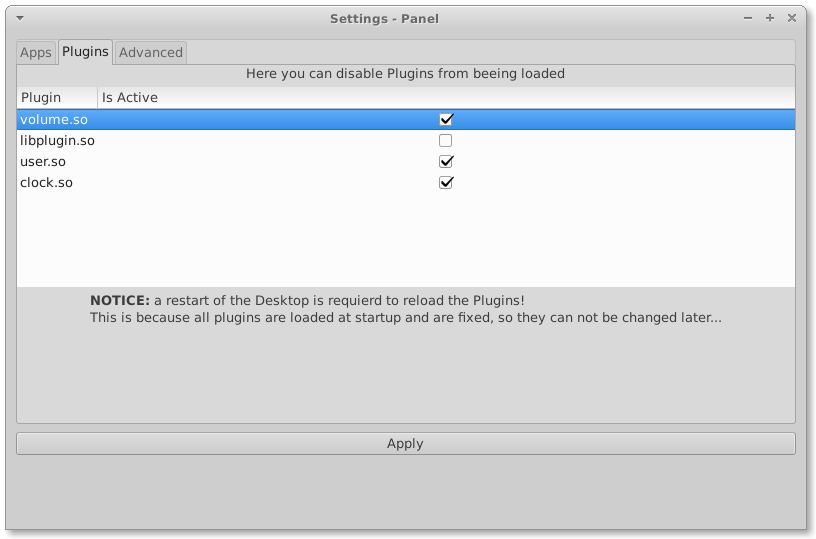
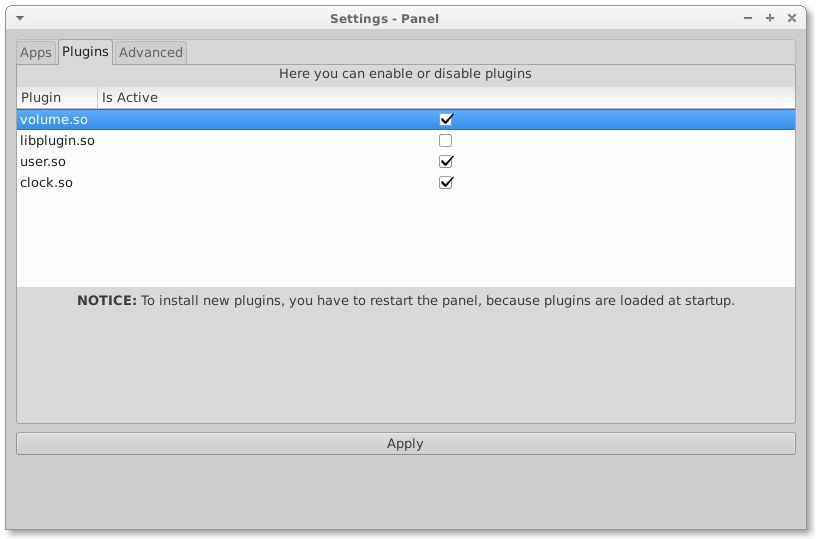
Version 0.65-rc1
Updated documentation, labels in panel settings

Changed region(s): [[0.0919, 0.5343, 0.8885, 0.6234], [0.0, 0.0297, 1.0, 0.0594], [0.3064, 0.1187, 0.7047, 0.1484]]

diff --git a/examples/plugin.c b/examples/plugin.c
@@ -1,34 +1,84 @@
 /*
 Simple plugin for JetSpace Panel
-It will place the panel at the top, not on the bottom, and it will show a basic callback...
+It will show a basic callback...
 
-To compill run 'make plugin'
+To compile run 'make plugin'
 to remove run 'make no_plugin'
+
+if you have any questions, write me at Marius  Messerschmidt <marius.messerschmidt@googlemail.com>
 
 LICENSE: PUBLIC DOMAIN (CC0)
 */
-#include <gtk/gtk.h>
-#include <glib.h>
-#include <gmodule.h>
 
+#include <gtk/gtk.h>    //include GTK
+#include <glib.h>       //include Glib
+#include <gmodule.h>    //include GModule
+
+#include <side/plugin.h>//Basic Plugin funcions
+
+//  Callback for the button
+//  This callback will be called when someone presses the button...
 gboolean test_cb(GtkWidget *w, GdkEvent *e, gpointer p)
 {
-  g_print("Plugin Was Pressed");
-  return TRUE;
+  g_print("Plugin Was Pressed!\n"); //Print to console
+  return TRUE;  //return TRUE
 }
+
+
+//This is the Init function
+/*
+  It will be called at startup, but your plugin should only do some init stuff.
+  It should _NOT_ do anything which affects the user, like displaying something...
+
+  A good thing to do here is to check the version...
+*/
+
+gboolean example_can_be_activated = FALSE;
+gboolean example_active = FALSE;
 
 G_MODULE_EXPORT void plugin_call(GtkWidget *root)
 {
-  g_warning("WARNING: YOU HAVE INSTALLED THE EXAMPLE PLUGIN(!!)");  //notice to the user
-  gtk_window_move(GTK_WINDOW(root), 0,0);                           //Set window to the top
+  //print a  warning, because this is only an example
+  g_warning("WARNING: YOU HAVE INSTALLED THE EXAMPLE PLUGIN(!!)");
 
-  GtkWidget *button;
+  //You can use COMPATIBLE_SINCE, COMPATIBLE_UNTIL and ONLY_FOR_VERSION
+  if(!check_version(COMPATIBLE_SINCE, "0.64"))
+    return;
 
-  if(GTK_IS_BIN(root)) {
+
+  example_can_be_activated = TRUE;
+
+}
+GtkWidget *button;
+
+//called when user enables the plugin
+//here you should do the visual stuff
+G_MODULE_EXPORT void enable_plugin(GtkWidget *root)
+{
+  if(example_active || !example_can_be_activated)
+    return; //return if already active OR is incompatible
+
+  example_active = TRUE;
+
+  if(GTK_IS_BIN(root))
+  { //create button
     GtkWidget *child = gtk_bin_get_child(GTK_BIN(gtk_bin_get_child(GTK_BIN(root))));
     button = gtk_button_new_with_label("Press Me (ONLY APPEARS WITH DEMO PLUGIN - DONT USE IT)!");
-    gtk_container_add(GTK_CONTAINER(child), button);
-
+    gtk_container_add(GTK_CONTAINER(child), button);//add to root box
   }
-  g_signal_connect(G_OBJECT(button), "button_press_event", G_CALLBACK(test_cb), NULL);
+
+  g_signal_connect(G_OBJECT(button), "button_press_event", G_CALLBACK(test_cb), NULL); //connect callback to button
+
+}
+
+//called when the user disables the plugin
+//you should remove everything your plugin did..
+G_MODULE_EXPORT void disable_plugin(GtkWidget *root)
+{
+  if(!example_active || !example_can_be_activated)
+    return; //return if already inactive OR is incompatible
+
+  example_active = FALSE;
+
+  gtk_widget_destroy(button); //remove button
 }

diff --git a/settings/settings_panel.c b/settings/settings_panel.c
@@ -423,9 +423,9 @@ gboolean panel_settings(void)
 
     gtk_container_add(GTK_CONTAINER(scroll_win2), modview);
 
-    label_mod = gtk_label_new("Here you can disable Plugins from beeing loaded");
+    label_mod = gtk_label_new("Here you can enable or disable plugins");
     label_apply = gtk_label_new("");
-    gtk_label_set_markup(GTK_LABEL(label_apply), "<b>NOTICE:</b> a restart of the Desktop is requierd to reload the Plugins!\nThis is because all plugins are loaded at startup and are fixed, so they can not be changed later...");
+    gtk_label_set_markup(GTK_LABEL(label_apply), "<b>NOTICE:</b> To install new plugins, you have to restart the panel, because plugins are loaded at startup.");
 
 
     gtk_container_add(GTK_CONTAINER(box2), label_mod);

diff --git a/shared/info.h b/shared/info.h
@@ -7,7 +7,7 @@ For more details view file 'LICENSE'
 //SOME SHARED INFOS
 
 //DESKTOP
-#define VERSION "0.64"
+#define VERSION "0.65-rc1"
 #define COPYRIGHT "Copyright (c) 2015 Marius Messerschmidt"
 #define DISCRIPTION "Simple Desktop Enviroment"
 

diff --git a/docs/plugins.md b/docs/plugins.md
@@ -5,10 +5,10 @@
 
 ## Intro
 
-A plugin will be loaded during the startup of the panel. If the users
-disables you plugin, it won't be loaded.
+A plugin will be loaded during the startup of the panel.
+But it can be activated / deactivated  during runtime.
 
-_PLEASE NOTE:_ A plugin can only be refreshed with restarting the panel.
+_PLEASE NOTE:_ A plugin can only be reloaded with restarting the panel.
 
 ## Enviroment
 
@@ -19,7 +19,6 @@ _PLEASE NOTE:_ A plugin can only be refreshed with restarting the panel.
 * Plugins are SharedObjects
     * Build with:
         * `gcc -o your_plugin.so --shared -fPIC source.c $(pkg-config --libs --cflags glib-2.0 gmodule-2.0 gtk+-3.0) -lside-plugin`
-        * You can ignore `gtk+-3.0` if you don't use any widgets.
 
 For best testing, kill panel and launch it from Terminal, so you can refresh
 plugins easily.
@@ -35,9 +34,15 @@ You can exit the panel later with `CTRL` + `C`
 You have to include the following headers:
 
 `#include <gmodule.h>`
-`#include <gtk.h> //only if you use widgets`
+`#include <gtk.h>`
 
-Then you need a 'modloader' function:
+
+### init
+
+Init is the first stage of a plugin. It will called on _ALL_ installed plugins, no matter
+if it is enabled or not. So in this stage, you should only perform basic tasks, like checking the version.
+
+Then you need a 'init' function:
 
 _It must be exactly like this:_
 
@@ -45,11 +50,46 @@ _It must be exactly like this:_
 
 `root` is the GtkWindow of the Panel.
 
+### enabled
+
+`G_MODULE_EXPORT void enable_plugin(GtkWidget *root)`
+
+Will be called when the user enables your plugin.
+
+Here you should draw your widgets and/or modify something
+
+### disabled
+
+`G_MODULE_EXPORT void disable_plugin(GtkWidget *root)`
+
+Will be called when the user disables your plugin.
+
+Here you should hide/destroy all your widgets and/or restore the defaults.
+
 ## Tips
 
 You can use the header `#include <side/plugin.h>` to get the following
-function:
+functions:
 
-`side_plugin_get_root_box(root);`
+
+
+### side_plugin_get_root_box(GtkWidget \*root)
+
+`side_plugin_get_root_box(GtkWidget *root);`
 
 It will return the main container, where all widgets are added.
+
+
+### check_version(int type, char \*target)
+
+`check_version(int type, char *target);`
+
+Check if your plugin is compatible, it will return a gboolean (TRUE/FALSE).
+
+For type use one of the following parameters:
+
+ * COMPATIBLE_SINCE  -> Your plugin works with all versions since »target«
+ * COMPATIBLE_UNTIL  -> Your plugin works with all versions before »target«
+ * ONLY_FOR_VERSION  -> Your plugin only works with version »target«
+
+ Target should be a string like `"0.50"` or `"0.60-rc2"`, etc.

diff --git a/docs/manual.md b/docs/manual.md
@@ -43,10 +43,9 @@ Clear will delete _all_  favorite applications.
 
 ![Plugin Settings](img/side-panel-settings-2.png)
 
-In the list, you can select the plugins, which the Panel should load
-on startup. Plugins extend the function of the panel. The panel comes with
-a few pre-installed plugins like `clock.so` or `user.so`. `libplugin.so` should
-not be enabled, because it is a example for developers on how to create
+You can enable or disable some plugin. Plugins extend the function of the panel.
+The panel comes with a few pre-installed plugins like `clock.so` or `user.so`.
+`libplugin.so` should not be enabled, because it is a example for developers on how to create
 plugins.
 
 You can simply enable plugins via checking the __Is Active__ box.
@@ -55,8 +54,7 @@ If you want to add new plugins you have to put the .so file in:
 
 `/usr/lib/jetspace/panel/plugins/`.
 
-As you can see, to enable new plugins you have to restart your session (or the panel).
-The simplest way to do this is to logout and login again.
+If you want to add a new plugin you have to restart the panel, so it would be loaded.
 
 ### Advanced
 
